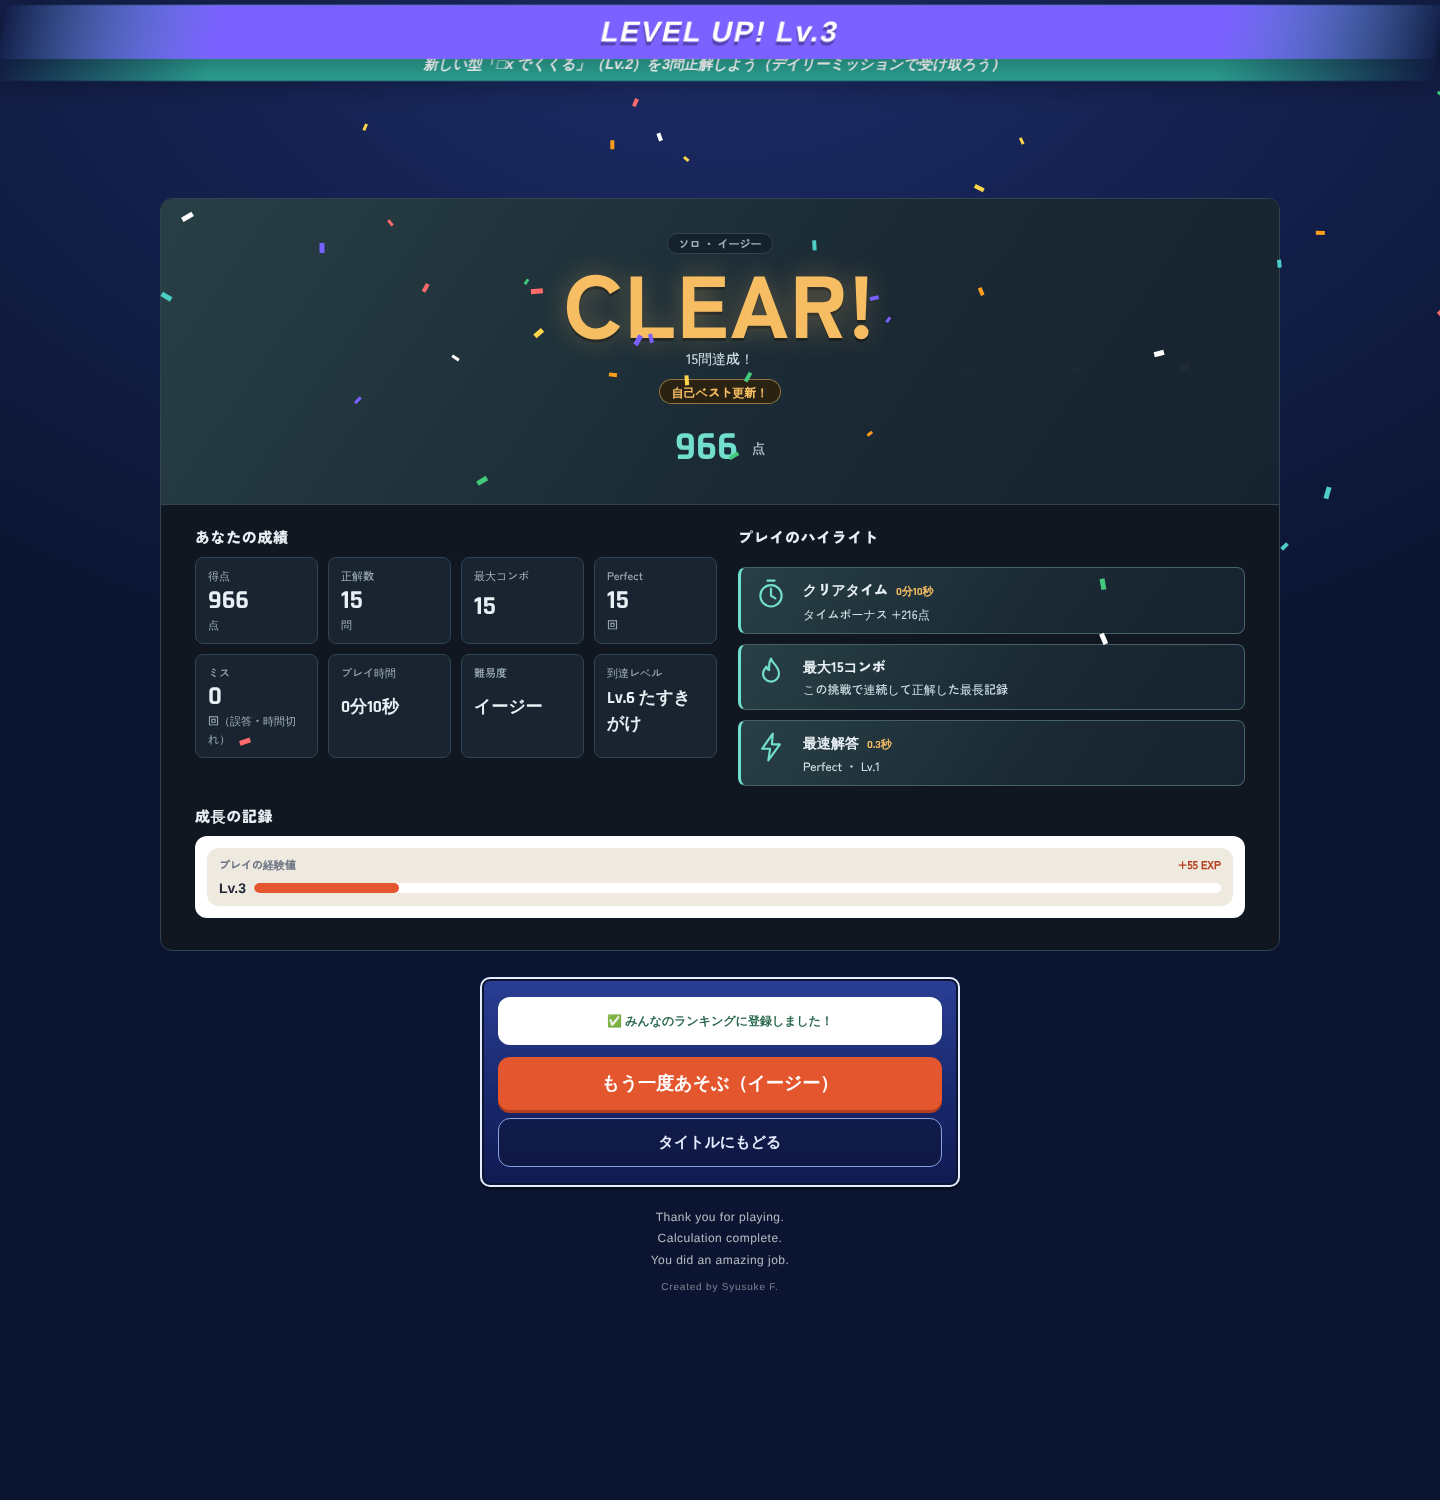
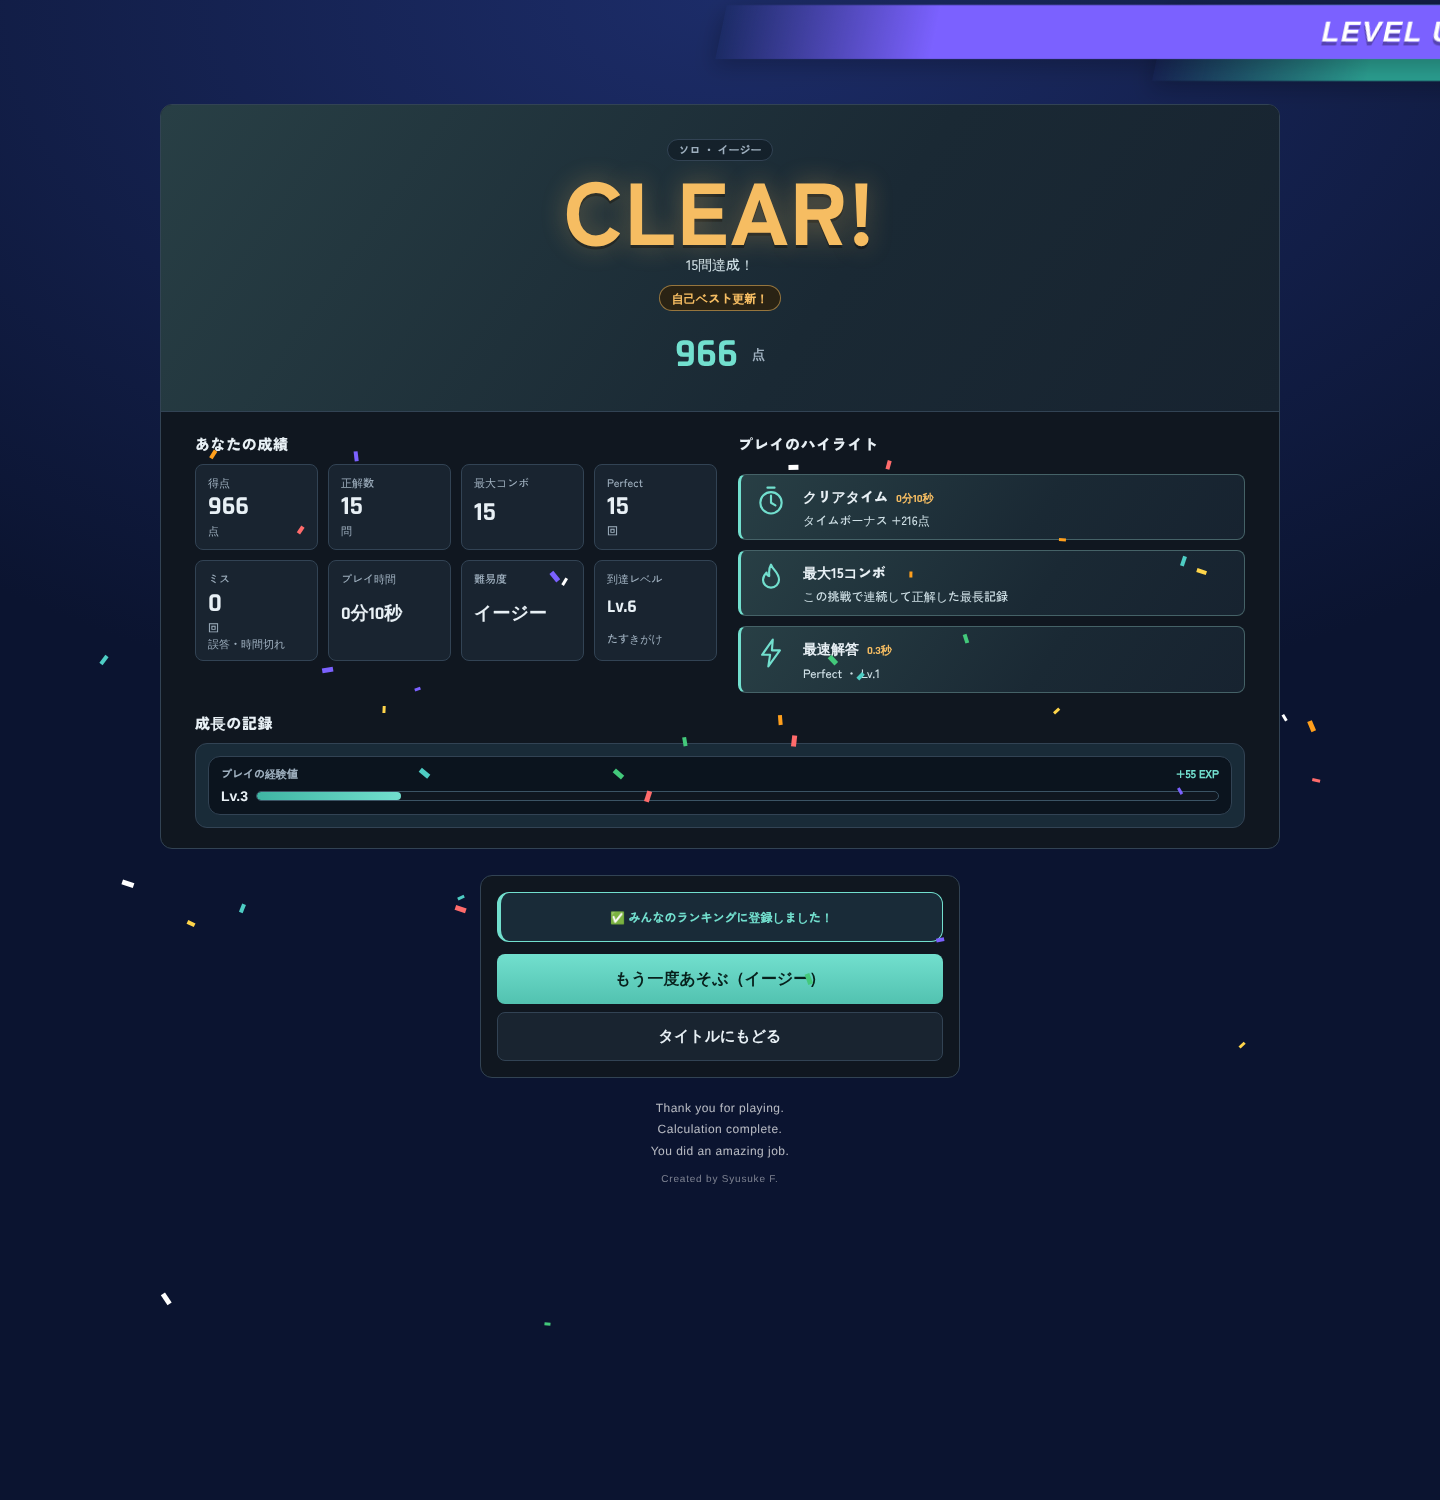
ci,docs(next): run solo run-log test; refresh screenshots and status
Claude-Session: https://claude.ai/code/session_01BS6keEnuiXCxdSx42kN4Ji

Changed region(s): [[0.0938, 0.276, 0.875, 0.8587], [0.0, 0.0, 1.0, 0.3067]]

diff --git a/docs/next-major/PHASE2_STATUS.md b/docs/next-major/PHASE2_STATUS.md
@@ -16,7 +16,8 @@
 - データ：`finishGame`の直前に表示専用スナップショット（最大コンボ＋全問の結果ログ）を`setRunSummary`へ取得。**学習記録`learnRef`は展開ボーナス問題と一部の経路を含まないため、表示専用の`runLogRef`を5箇所（通常正解／誤答／時間切れ／展開正解／展開誤答）に追記**（learnRef／flushLearn／EXP／ランキング／ゴースト／ミッションの処理・順序は不変）。開始時に両方を空にして次のプレイに混入しない。ログの正解数が`caught`と一致しない場合は、Perfect・ミス・最速解答を表示しない。
 - 表示：CLEAR!（金・控えめな紙吹雪）／GAME OVER（落ち着いた表示）、成績（得点・正解数・最大コンボ・Perfect・ミス（誤答＋時間切れ）・プレイ時間・難易度・到達レベル）、ハイライト（クリアタイム・最大コンボ・最速解答。問題番号なし）、既存ExpGain。ミス1回以上で「学びの部屋へ」（`onMode('learn')`。復習とは表記しない）。バッジは既存の`isRecord`／`rankedIn`が真のときだけ。
 - 検証：`tests/solo-result-model.test.cjs`、`tests/solo-result-browser.cjs`（イージークリア／ノーマルGAME OVER＋次プレイ非混入／ハード0正解／ゲスト／フォールバック／reduced-motion、375/390/430/1440）、`tests/solo-parity-dump.cjs`（変更前後で DB書込パス・EXP増分・ローカル保存キー・ゴースト形を照合し一致）。
-- 未解決：成長ブロック（ExpGain）は既存のライトカード配色。ネットランキング送信欄とボタンは既存の青い窓のまま。`chromebook-browser`／`online-improvements-browser`は開発ブランチの元の状態でも失敗する既存の古いテスト。
+- 最終調整（ディレクター確認後）：LEVEL UP帯の通り道を上部に確保（演出は維持）、成長カード／ランキング欄／ボタンを`.nbr[data-kind=S]`と`.nbr-act`限定CSSでダークネイビー＋ティールへ（ExpGain等の共有コンポーネントは不変。送信中／成功／失敗／入力待ちは`data-net`で枠色と文言を区別）、ハイライトは実数（最大15コンボ）、スマホタイルの補足（ミス＝誤答・時間切れ／到達レベル名）を折り返し対応。`tests/solo-runlog-browser.cjs`で通常問題の正解・誤答・時間切れ、展開ボーナスの正解・誤答、混在試合、クリア直後・GAME OVER直後、再挑戦での非混入、欠損時の非表示を実プレイで検証。
+- 未解決：`chromebook-browser`／`online-improvements-browser`は基点ブランチでも同じ箇所で失敗する既存の古いテスト（今回の変更による新しい失敗なし）。
 
 ## Claudeへの最終引き継ぎ（2026-10-16）
 
